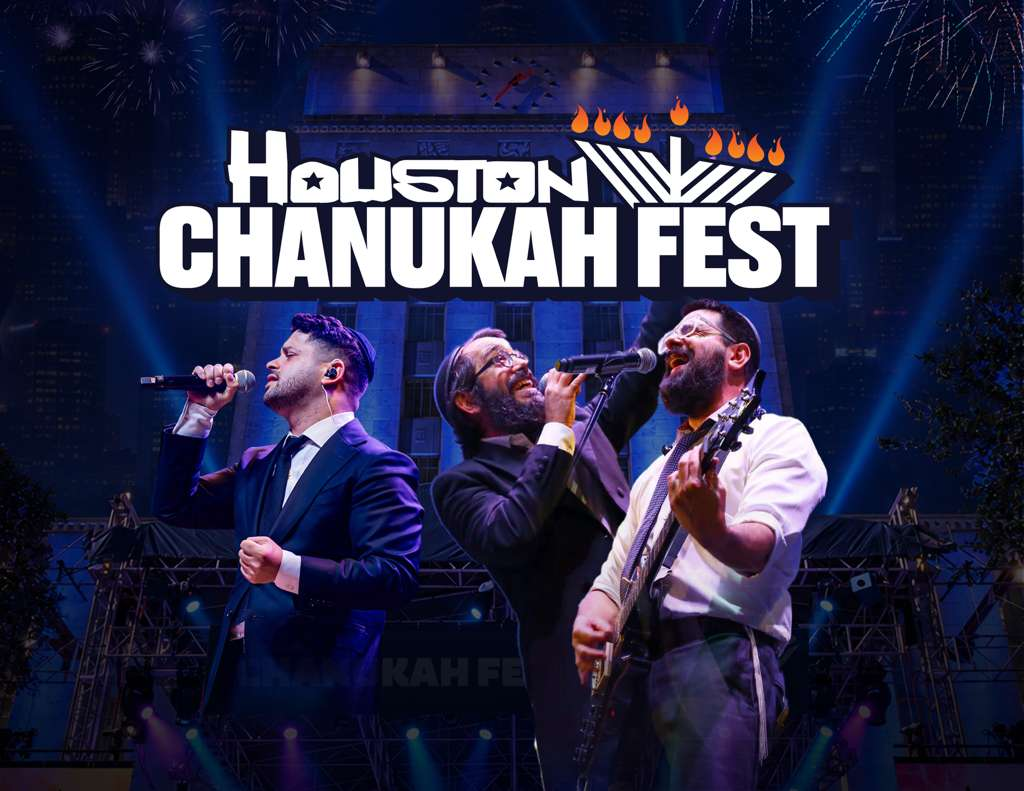
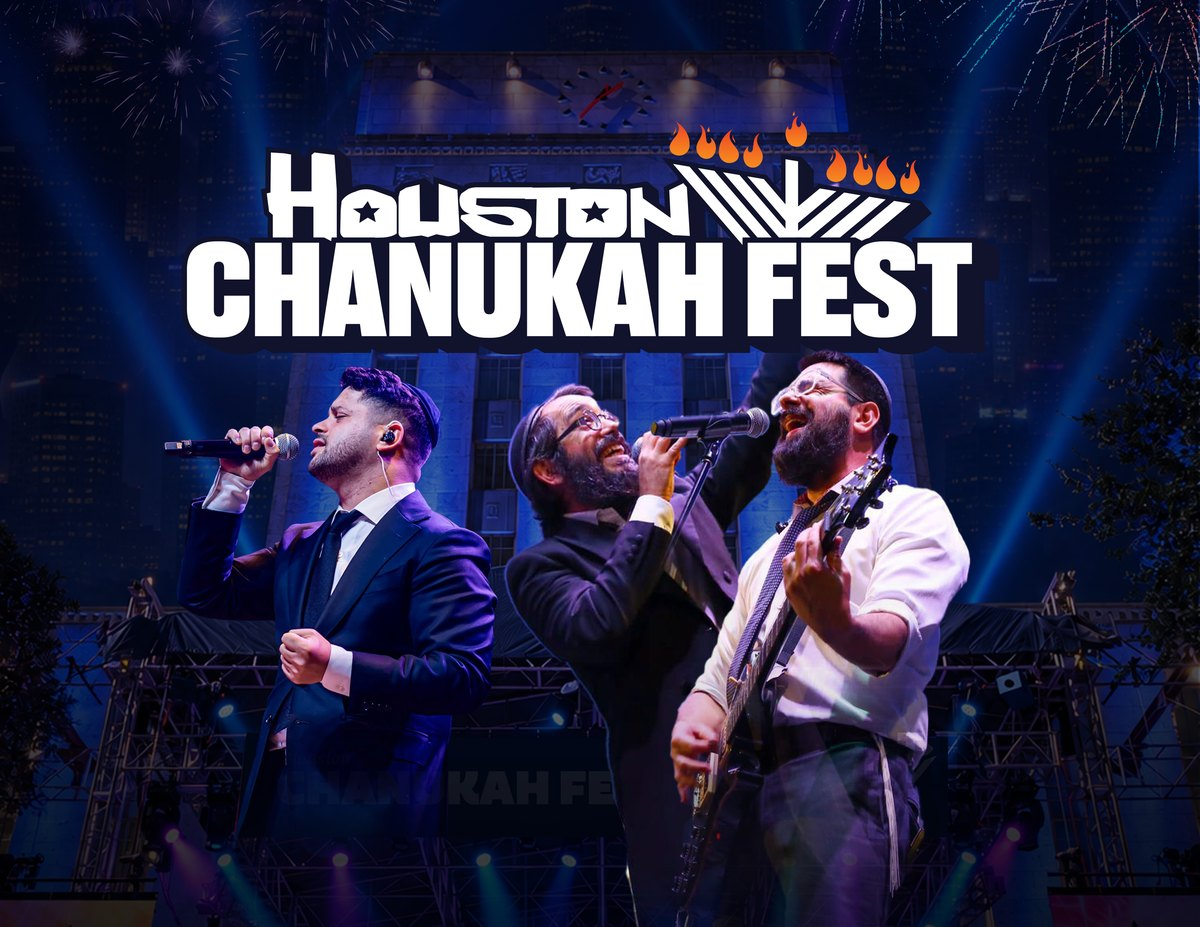
FAQ as dropdowns in two columns, and the higher-res artwork
Each question is a native <details>, so it works from the keyboard,
works if a script fails to load, and is announced properly rather than
being a div that happens to toggle.

The boxes are uniform: the same width, and the same height when shut
whether the question runs to one line or two.

Two columns that fill independently rather than a grid of rows. As a
grid, opening a box on the right stretched its row and left a hole on
the left -- the taller the answer, the bigger the hole. The questions
are split in half rather than alternating, so stacked on a phone they
still read in order.

Artwork: both images replaced from the new sources, which matched the
old aspect ratios exactly. The banner is served at three sizes and the
browser takes the one it needs -- 1024, 1600 or 2400 across -- rather
than every visitor downloading the largest. The poster is 1200 across,
which is also the smallest size that makes a decent link preview.

hero-bg, logo, performer-1, performer-2 and strip are no longer
referenced by any page; left in place rather than deleted.

Claude-Session: https://claude.ai/code/session_01Sarj7JzRjtMQrn6dM6CT9W

diff --git a/index.html b/index.html
@@ -8,7 +8,7 @@
 <style>html,body{margin:0;padding:0;background:#F4F6F9;}</style>
 <link rel="stylesheet" href="/Chanukah-Fest-26/assets/nav.css?v=20261022q" />
 <script src="/Chanukah-Fest-26/assets/to-top.js?v=20261022p" defer></script>
-<script src="/Chanukah-Fest-26/assets/content.js?v=20261022u" defer></script>
+<script src="/Chanukah-Fest-26/assets/content.js?v=20261022w" defer></script>
 <script src="/Chanukah-Fest-26/assets/calendar.js?v=20261022p" defer></script>
 <link rel="icon" href="/Chanukah-Fest-26/images/icon-32.png" sizes="32x32" />
 <link rel="apple-touch-icon" href="/Chanukah-Fest-26/images/icon-180.png" />
@@ -636,7 +636,7 @@
   /* Every photo in the row shares the poster's shape, so the cards line
      up whatever width the row is. A fixed height would leave the poster
      card tall and its neighbours short. */
-  aspect-ratio: 1024 / 791;
+  aspect-ratio: 1200 / 927;
   background-color: #E8EEF5 !important;
   background-size: cover;
   background-position: center;
@@ -824,16 +824,71 @@
   border-top: 1px solid var(--line-2);
 }
 
+/* Two columns that fill independently, not a grid of rows.
+   As a grid, opening a box on the right stretched its row and left a hole
+   on the left -- the taller the answer, the bigger the hole. Each column
+   packs its own boxes now, so opening one only moves what is under it. */
 .cf26 .cf26-qs {
-  display: grid;
-  grid-template-columns: minmax(0,1fr) minmax(0,1fr);
-  gap: 28px 44px;
+  display: flex;
+  gap: 20px;
   margin-top: 32px;
+  align-items: flex-start;
 }
 
-/* Three points and a link do not sit well in half a column beside a
-   one-line answer, so this one takes the full width of the row. */
-.cf26 .cf26-q-wide { grid-column: 1 / -1; }
+.cf26 .cf26-qcol {
+  flex: 1 1 0;
+  min-width: 0;
+  display: flex;
+  flex-direction: column;
+  gap: 12px;
+}
+
+/* Every box the same: same width, and the same height when shut, so a
+   two-line question does not sit taller than a one-line one. */
+.cf26 .cf26-q {
+  background-color: #FFFFFF !important;
+  border: 1px solid var(--line);
+  border-radius: 11px;
+  padding: 0 18px;
+  box-shadow: 0 1px 3px rgba(6,20,42,0.05);
+}
+
+.cf26 .cf26-q summary {
+  display: flex;
+  align-items: center;
+  min-height: 58px;
+  padding: 10px 26px 10px 0;
+  position: relative;
+  cursor: pointer;
+  list-style: none;
+}
+.cf26 .cf26-q summary::-webkit-details-marker { display: none; }
+
+/* drawn rather than typed, so no font has to carry the glyph */
+.cf26 .cf26-q summary::after {
+  content: "";
+  position: absolute;
+  right: 4px;
+  top: 50%;
+  width: 9px; height: 9px;
+  margin-top: -7px;
+  border-right: 2px solid var(--gold);
+  border-bottom: 2px solid var(--gold);
+  transform: rotate(45deg);
+  transition: transform .18s ease;
+}
+.cf26 .cf26-q details[open] summary::after {
+  transform: rotate(-135deg);
+  margin-top: -2px;
+}
+.cf26 .cf26-q summary:focus-visible { outline: 2px solid var(--gold); outline-offset: 3px; }
+
+.cf26 .cf26-q-body { padding-bottom: 16px; }
+.cf26 .cf26-q-body > *:first-child { margin-top: 0 !important; }
+
+@media (prefers-reduced-motion: reduce) {
+  .cf26 .cf26-q summary::after { transition: none; }
+}
 
 .cf26 .cf26-q-list {
   margin: 8px 0 0;
@@ -855,8 +910,8 @@
 }
 
 .cf26 .cf26-q h3 {
-  font-size: 17.5px;
-  margin-bottom: 7px;
+  font-size: 17px;
+  margin: 0;
 }
 
 .cf26 .cf26-q p {
@@ -906,11 +961,11 @@
 /* ============================ RESPONSIVE ============================ */
 @media (max-width: 900px) {
   .cf26 .cf26-about-grid,
-  .cf26 .cf26-loc-grid,
-  .cf26 .cf26-qs {
+  .cf26 .cf26-loc-grid {
     grid-template-columns: minmax(0,1fr);
     gap: 26px;
   }
+  .cf26 .cf26-qs { flex-direction: column; gap: 12px; align-items: stretch; }
   .cf26 .cf26-map { min-height: 210px; }
 }
 
@@ -1226,7 +1281,7 @@ html, body { overflow-x: clip; max-width: 100%; }
 
   <!-- ==================== HERO ==================== -->
   </span><div class="cf26-hero" data-cf-sec="hero">
-    <div class="cf-banner cf-banner-hero"><img src="/Chanukah-Fest-26/images/banner-wide.jpg" alt="Houston Chanukah Fest" width="1024" height="348" />
+    <div class="cf-banner cf-banner-hero"><img src="/Chanukah-Fest-26/images/banner-wide.jpg" srcset="/Chanukah-Fest-26/images/banner-1024.jpg 1024w, /Chanukah-Fest-26/images/banner-1600.jpg 1600w, /Chanukah-Fest-26/images/banner-2400.jpg 2400w" sizes="100vw" alt="Houston Chanukah Fest" width="1600" height="544" />
         <div class="cf-banner-over">
           <div class="cf26-facts">
         <span class="cf26-cal">
@@ -1398,7 +1453,7 @@ html, body { overflow-x: clip; max-width: 100%; }
       <div class="cf26-acts">
 
         <div class="cf26-act">
-          <div class="cf26-act-photo cf26-act-photo-on cf26-act-photo-poster"><img src="/Chanukah-Fest-26/images/hero.jpg" alt="Itzik Dadya and 8th Day on stage" loading="lazy" width="1024" height="791" /></div>
+          <div class="cf26-act-photo cf26-act-photo-on cf26-act-photo-poster"><img src="/Chanukah-Fest-26/images/hero.jpg" alt="Itzik Dadya and 8th Day on stage" loading="lazy" width="1200" height="927" /></div>
           <div class="cf26-act-body">
             <div class="cf26-act-role" data-cf="stage.8fd582a9">Headliner</div>
             <h3 data-cf="stage.19aa5f8c">Itzik Dadya</h3>
@@ -1407,7 +1462,7 @@ html, body { overflow-x: clip; max-width: 100%; }
         </div>
 
         <div class="cf26-act">
-          <div class="cf26-act-photo cf26-act-photo-on cf26-act-photo-poster"><img src="/Chanukah-Fest-26/images/hero.jpg" alt="Itzik Dadya and 8th Day on stage" loading="lazy" width="1024" height="791" /></div>
+          <div class="cf26-act-photo cf26-act-photo-on cf26-act-photo-poster"><img src="/Chanukah-Fest-26/images/hero.jpg" alt="Itzik Dadya and 8th Day on stage" loading="lazy" width="1200" height="927" /></div>
           <div class="cf26-act-body">
             <div class="cf26-act-role" data-cf="stage.8fd582a9~1">Headliner</div>
             <h3 data-cf="stage.c804aa01">8th Day</h3>
@@ -1563,46 +1618,59 @@ html, body { overflow-x: clip; max-width: 100%; }
 
       <div class="cf26-qs">
 
+      <div class="cf26-qcol">
         <div class="cf26-q">
-          <h3 data-cf="faq.de0cab55">Do I need a ticket?</h3>
-          <p data-cf="faq.ef899d28">No. Admission is free and open to everyone. If you would like a guaranteed seat at the front, reserved seating can be bought in advance and only 500 seats are available. Food and merchandise are the only other things you pay for.</p>
+          <details>
+            <summary><h3 data-cf="faq.de0cab55">Do I need a ticket?</h3></summary>
+            <div class="cf26-q-body">          <p data-cf="faq.ef899d28">No. Admission is free and open to everyone. If you would like a guaranteed seat at the front, reserved seating can be bought in advance and only 500 seats are available. Food and merchandise are the only other things you pay for.</p></div>
+          </details>
         </div>
-
         <div class="cf26-q cf26-q-wide">
-          <h3 data-cf="faq.5b0e1c47">Parking &amp; transportation</h3>
-          <ul class="cf26-q-list">
+          <details>
+            <summary><h3 data-cf="faq.5b0e1c47">Parking &amp; transportation</h3></summary>
+            <div class="cf26-q-body">          <ul class="cf26-q-list">
             <li><strong data-cf="faq.0a7d31b9">Free street parking</strong><span class="cf-sep"> &mdash; </span><span data-cf="faq.6c2e84f0">Metered street parking in Downtown Houston is free on Sundays.</span></li>
             <li><strong data-cf="faq.b3f19d22">Guaranteed garage parking</strong><span class="cf-sep"> &mdash; </span><span data-cf="faq.e7a5206c">Reserve a parking space in advance at the Theater District Garage (Tranquility 2), 499 Rusk St., Houston, TX 77002.</span> <a class="cf26-q-link" href="https://app.parkmobile.io/reservation/13986?startDate=2026-12-06T15%3A00%3A00" target="_blank" rel="noopener" data-cf-href="faq.9f4c0e83" data-cf="faq.2c81b7de">Reserve your garage space</a></li>
             <li><strong data-cf="faq.47ad5f10">Rideshare &amp; carpooling</strong><span class="cf-sep"> &mdash; </span><span data-cf="faq.d80b6a35">To avoid traffic and limited street spots, rideshare (Uber/Lyft) or carpooling is encouraged.</span></li>
-          </ul>
+          </ul></div>
+          </details>
         </div>
-
         <div class="cf26-q">
-          <h3 data-cf="faq.9bec51fd">How does VIP seating work?</h3>
-          <p><span class="cf26-fill" data-cf="faq.da11b7a4">[[ WHAT IT INCLUDES, PRICE, AND WHERE TO BUY ]]</span></p>
+          <details>
+            <summary><h3 data-cf="faq.9bec51fd">How does VIP seating work?</h3></summary>
+            <div class="cf26-q-body">          <p><span class="cf26-fill" data-cf="faq.da11b7a4">[[ WHAT IT INCLUDES, PRICE, AND WHERE TO BUY ]]</span></p></div>
+          </details>
         </div>
-
         <div class="cf26-q">
-          <h3 data-cf="faq.bf8463dc">What if it rains?</h3>
-          <p><span class="cf26-fill" data-cf="faq.0544e729">[[ RAIN POLICY — RAIN OR SHINE? WHERE WILL UPDATES BE POSTED? ]]</span></p>
+          <details>
+            <summary><h3 data-cf="faq.bf8463dc">What if it rains?</h3></summary>
+            <div class="cf26-q-body">          <p><span class="cf26-fill" data-cf="faq.0544e729">[[ RAIN POLICY — RAIN OR SHINE? WHERE WILL UPDATES BE POSTED? ]]</span></p></div>
+          </details>
         </div>
-
-        <div class="cf26-q">
-          <h3 data-cf="faq.ca93afa9">Is it good for young children?</h3>
-          <p data-cf="faq.172cca5c">Yes. A large share of the booths are hands-on crafts and activities built for kids, and strolling performers work the crowd all afternoon.</p>
-        </div>
-
-        <div class="cf26-q">
-          <h3 data-cf="faq.12758d22">Can I bring a group?</h3>
-          <p><span class="cf26-fill" data-cf="faq.57f8df03">[[ SCHOOL AND SHUL GROUPS — IS THERE A HEADS-UP FORM OR CONTACT? ]]</span></p>
-        </div>
-
-        <div class="cf26-q">
-          <h3 data-cf="faq.d2376bca">Is the food kosher?</h3>
-          <p><span data-cf="faq.468ce11e">Yes, everything sold on site is kosher. </span><span class="cf26-fill" data-cf="faq.c9003d49">[[ NAME THE CERTIFYING AGENCY ]]</span></p>
-        </div>
-
       </div>
+
+      <div class="cf26-qcol">
+        <div class="cf26-q">
+          <details>
+            <summary><h3 data-cf="faq.ca93afa9">Is it good for young children?</h3></summary>
+            <div class="cf26-q-body">          <p data-cf="faq.172cca5c">Yes. A large share of the booths are hands-on crafts and activities built for kids, and strolling performers work the crowd all afternoon.</p></div>
+          </details>
+        </div>
+        <div class="cf26-q">
+          <details>
+            <summary><h3 data-cf="faq.12758d22">Can I bring a group?</h3></summary>
+            <div class="cf26-q-body">          <p><span class="cf26-fill" data-cf="faq.57f8df03">[[ SCHOOL AND SHUL GROUPS — IS THERE A HEADS-UP FORM OR CONTACT? ]]</span></p></div>
+          </details>
+        </div>
+        <div class="cf26-q">
+          <details>
+            <summary><h3 data-cf="faq.d2376bca">Is the food kosher?</h3></summary>
+            <div class="cf26-q-body">          <p><span data-cf="faq.468ce11e">Yes, everything sold on site is kosher. </span><span class="cf26-fill" data-cf="faq.c9003d49">[[ NAME THE CERTIFYING AGENCY ]]</span></p></div>
+          </details>
+        </div>
+      </div>
+
+    </div>
     </div>
   </div><span data-cf="page.6934b47b">
 

diff --git a/sponsor/index.html b/sponsor/index.html
@@ -9,7 +9,7 @@
 <script src="/Chanukah-Fest-26/assets/forms.js?v=20261022h" defer></script>
 <link rel="stylesheet" href="/Chanukah-Fest-26/assets/nav.css?v=20261022q" />
 <script src="/Chanukah-Fest-26/assets/to-top.js?v=20261022p" defer></script>
-<script src="/Chanukah-Fest-26/assets/content.js?v=20261022u" defer></script>
+<script src="/Chanukah-Fest-26/assets/content.js?v=20261022w" defer></script>
 <link rel="icon" href="/Chanukah-Fest-26/images/icon-32.png" sizes="32x32" />
 <link rel="apple-touch-icon" href="/Chanukah-Fest-26/images/icon-180.png" />
 <meta property="og:title" content="Sponsor Houston Chanukah Fest 2026" />

diff --git a/vendor/index.html b/vendor/index.html
@@ -9,7 +9,7 @@
 <script src="/Chanukah-Fest-26/assets/forms.js?v=20261022h" defer></script>
 <link rel="stylesheet" href="/Chanukah-Fest-26/assets/nav.css?v=20261022q" />
 <script src="/Chanukah-Fest-26/assets/to-top.js?v=20261022p" defer></script>
-<script src="/Chanukah-Fest-26/assets/content.js?v=20261022u" defer></script>
+<script src="/Chanukah-Fest-26/assets/content.js?v=20261022w" defer></script>
 <link rel="icon" href="/Chanukah-Fest-26/images/icon-32.png" sizes="32x32" />
 <link rel="apple-touch-icon" href="/Chanukah-Fest-26/images/icon-180.png" />
 <meta property="og:title" content="Chanukah Fest 2026 Vendor Booths" />

diff --git a/volunteer/index.html b/volunteer/index.html
@@ -418,7 +418,7 @@ html, body { overflow-x: clip; max-width: 100%; }
 </style>
 <link rel="stylesheet" href="/Chanukah-Fest-26/assets/nav.css?v=20261022q" />
 <script src="/Chanukah-Fest-26/assets/to-top.js?v=20261022p" defer></script>
-<script src="/Chanukah-Fest-26/assets/content.js?v=20261022u" defer></script>
+<script src="/Chanukah-Fest-26/assets/content.js?v=20261022w" defer></script>
 <link rel="icon" href="/Chanukah-Fest-26/images/icon-32.png" sizes="32x32" />
 <link rel="apple-touch-icon" href="/Chanukah-Fest-26/images/icon-180.png" />
 <meta property="og:title" content="Volunteer at Chanukah Fest 2026" />

diff --git a/raffle/index.html b/raffle/index.html
@@ -464,7 +464,7 @@ html, body { overflow-x: clip; max-width: 100%; }
 </style>
 <link rel="stylesheet" href="/Chanukah-Fest-26/assets/nav.css?v=20261022q" />
 <script src="/Chanukah-Fest-26/assets/to-top.js?v=20261022p" defer></script>
-<script src="/Chanukah-Fest-26/assets/content.js?v=20261022u" defer></script>
+<script src="/Chanukah-Fest-26/assets/content.js?v=20261022w" defer></script>
 <link rel="icon" href="/Chanukah-Fest-26/images/icon-32.png" sizes="32x32" />
 <link rel="apple-touch-icon" href="/Chanukah-Fest-26/images/icon-180.png" />
 <meta property="og:title" content="Chanukah Fest Raffle" />

diff --git a/assets/content.js b/assets/content.js
@@ -158,7 +158,7 @@
      nothing, a list item is a bullet on its own. Innermost first, so a
      list is judged after the items inside it have gone. */
   var EMPTY_HIDES = [[".cf26-act", ".cf26-act-body"], [".sp26-stat", null],
-                     [".cf26-slot", null],
+                     [".cf26-slot", null], [".cf26-q", null],
                      ["li", null], ["ul", null], ["ol", null],
                      ["label", null]];
 
